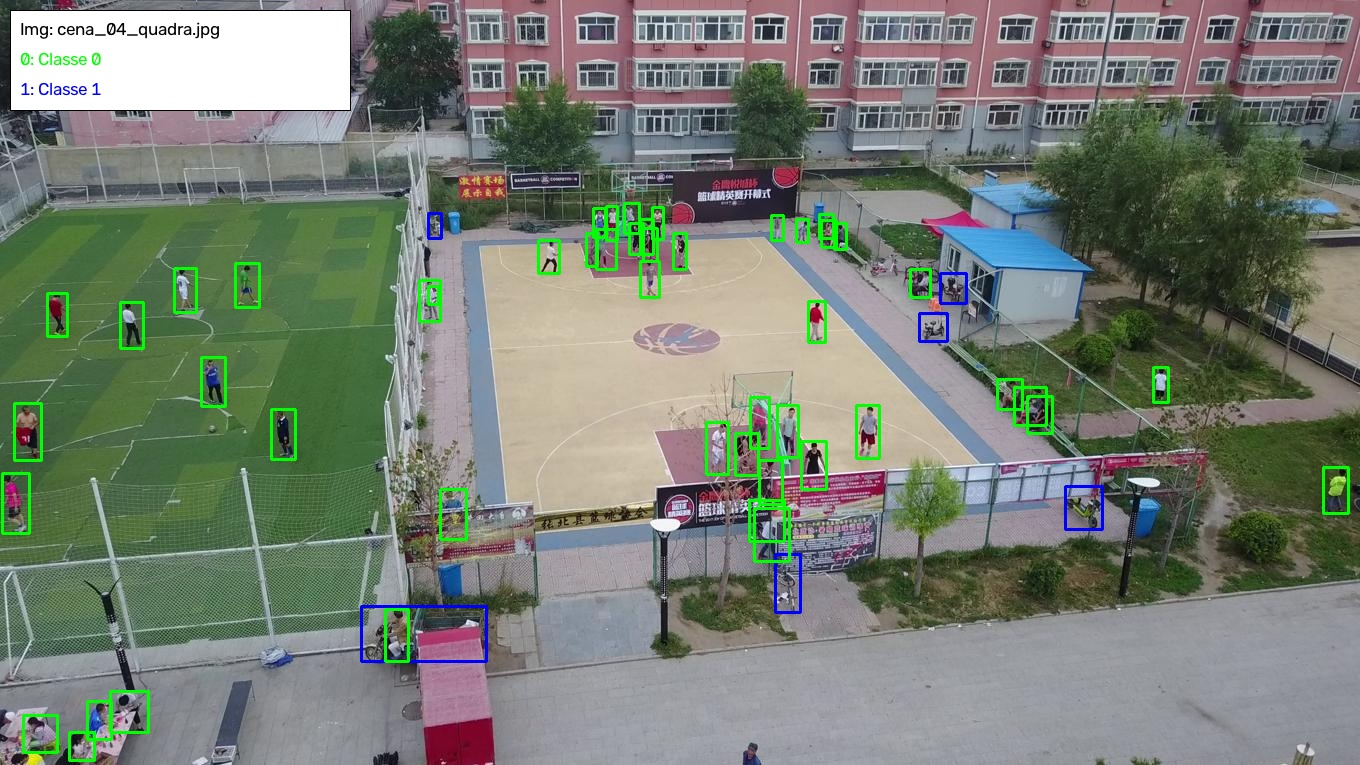
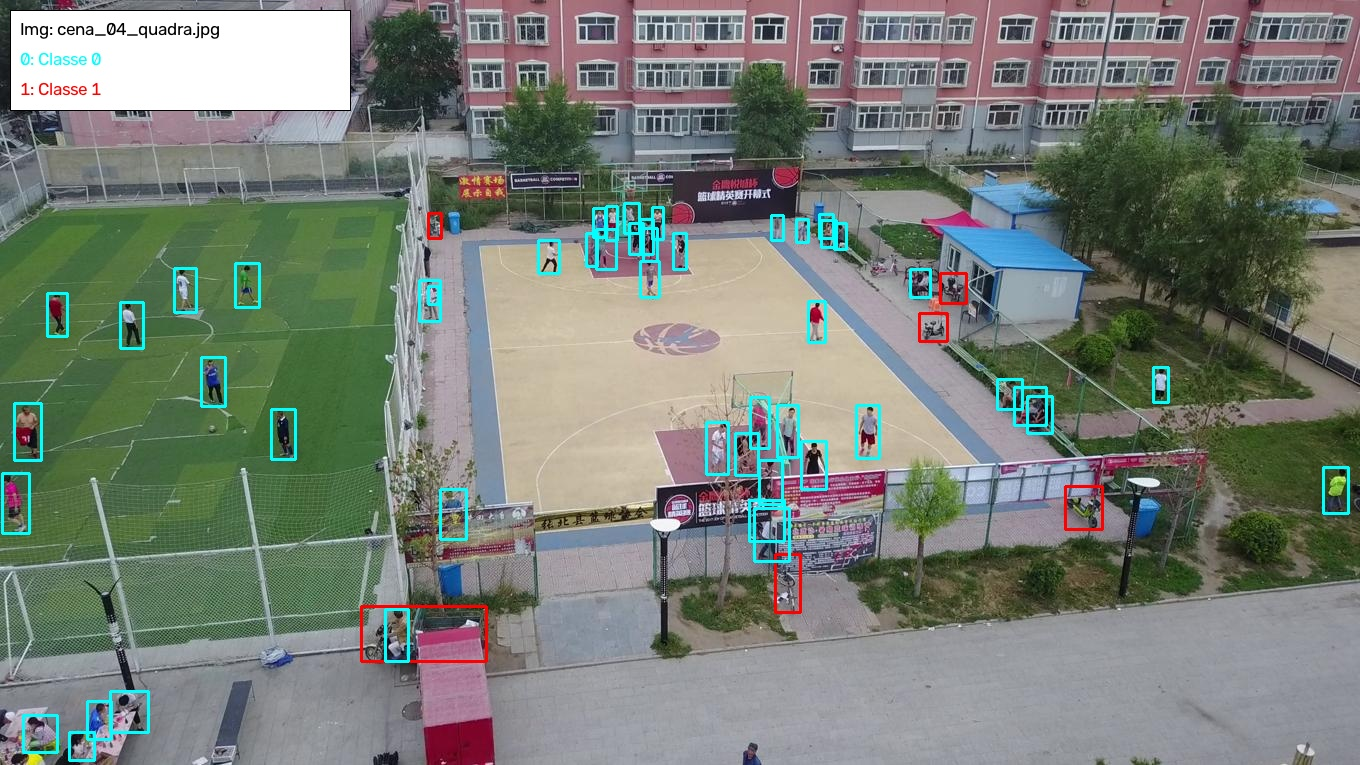
Alterações na estrutura principal. Código modularizado dentro da pasta src/, com toda a lógica anterior aplicada. Imagens agora possuem legenda de class_id, e alguns tratamentos de erro essenciais foram incluidos.

diff --git a/src/modelos.py b/src/modelos.py
@@ -1,0 +1,64 @@
+import cv2 as cv
+import sys
+from pathlib import Path
+
+class Deteccao:
+    def __init__(self, id, x_mn, x_mx, y_mn, y_mx):
+        self.class_id = int(id)
+        self.x_min = int(x_mn)
+        self.x_max = int(x_mx)
+        self.y_min = int(y_mn)
+        self.y_max = int(y_mx)
+
+    def desenhar(self, imagem):
+        if self.class_id == 0:
+            cor = (255, 255, 0)
+        else:
+            cor = (0, 0, 255)
+
+        cv.rectangle(imagem, (self.x_min, self.y_min), (self.x_max, self.y_max), cor, 2)
+
+
+class ImagemAnotada:
+    def __init__(self, caminho_img):
+        self.caminho = caminho_img
+        self.deteccoes = []
+        self.raiz_projeto = Path(__file__).parent.parent
+
+    def adicionarDeteccao(self, id, x_mn, x_mx, y_mn, y_mx):
+        novaDetec = Deteccao(id, x_mn, x_mx, y_mn, y_mx)
+        self.deteccoes.append(novaDetec)
+
+    def criarImagem(self):
+        caminho_leitura = str(self.raiz_projeto / "imagens" / self.caminho)
+        caminho_salvar = str(self.raiz_projeto / "resultados" / self.caminho)
+        
+        img = cv.imread(caminho_leitura)
+        
+        if img is None:
+            sys.exit(f"Erro crítico: A imagem não pôde ser lida no caminho {caminho_leitura}")
+
+        altura, largura = img.shape[:2]
+        caixas_desenhadas = 0
+
+        for atual in self.deteccoes:
+            if (0 <= atual.x_min < atual.x_max < largura) and (0 <= atual.y_min < atual.y_max < altura):
+                atual.desenhar(img)
+                caixas_desenhadas += 1
+
+        cv.rectangle(img, (10, 10), (350, 110), (255, 255, 255), -1)
+        cv.rectangle(img, (10, 10), (350, 110), (0, 0, 0), 1)
+        cv.putText(img, f"Img: {self.caminho}", (20, 35), cv.FONT_HERSHEY_SIMPLEX, 0.6, (0, 0, 0), 1, cv.LINE_AA)
+        cv.putText(img, "0: Classe 0", (20, 65), cv.FONT_HERSHEY_SIMPLEX, 0.6, (255, 255, 0), 1, cv.LINE_AA)
+        cv.putText(img, "1: Classe 1", (20, 95), cv.FONT_HERSHEY_SIMPLEX, 0.6, (0, 0, 255), 1, cv.LINE_AA)
+
+        cv.imwrite(caminho_salvar, img)
+        print(f"[{self.caminho}] {caixas_desenhadas} caixas desenhadas.")
+
+        if altura > 720 or largura > 1280:
+            escala = min(1280 / largura, 720 / altura)
+            img_exibicao = cv.resize(img, (int(largura * escala), int(altura * escala)))
+        else:
+            img_exibicao = img
+
+        cv.imshow("Display window", img_exibicao)

diff --git a/src/arquivos.py b/src/arquivos.py
@@ -1,0 +1,35 @@
+import csv
+import sys
+from pathlib import Path
+
+def carregar_anotacoes():
+    eidict = {}
+    
+    raiz_projeto = Path(__file__).parent.parent
+    caminho_csv = raiz_projeto / "dados" / "anotacoes.csv"
+
+    try:
+        with open(caminho_csv, mode='r') as arq:
+            leitor = csv.reader(arq, delimiter=',')
+
+            for leitura in leitor:
+                imagem = leitura[0]
+                
+                if imagem == "imagem" or len(leitura) < 6:
+                    continue
+                
+                try:
+                    for val in leitura[1:6]:
+                        int(val)
+                except ValueError:
+                    sys.exit("Erro: Campos inválidos no CSV.")
+
+                if imagem in eidict:
+                    eidict[imagem].append(leitura[1:])
+                else:
+                    eidict[imagem] = [leitura[1:]]
+                    
+        return eidict
+
+    except FileNotFoundError:
+        sys.exit(f"Erro: CSV não encontrado no caminho {caminho_csv}.")

diff --git a/src/main.py b/src/main.py
@@ -1,0 +1,33 @@
+import cv2 as cv
+import sys
+from arquivos import carregar_anotacoes
+from modelos import ImagemAnotada
+
+def main():
+    eidict = carregar_anotacoes()
+
+    for image in sorted(eidict.keys()):
+        
+        img_obj = ImagemAnotada(image)
+        
+        for itens in eidict[image]:
+            img_obj.adicionarDeteccao(itens[0], itens[1], itens[3], itens[2], itens[4])
+
+        img_obj.criarImagem()
+
+        sair = False
+        while True:
+            k = cv.waitKey(0)
+            if k == ord("q"):
+                sair = True
+                break
+            if k == ord(" "):
+                break
+                
+        if sair:
+            break
+
+    cv.destroyAllWindows()
+
+if __name__ == "__main__":
+    main()
